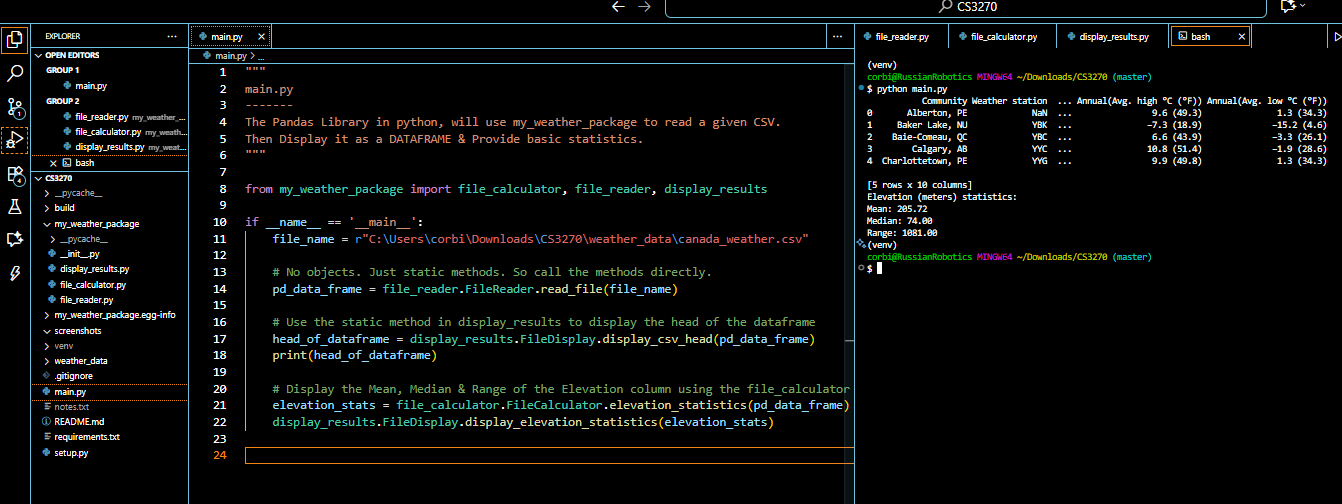
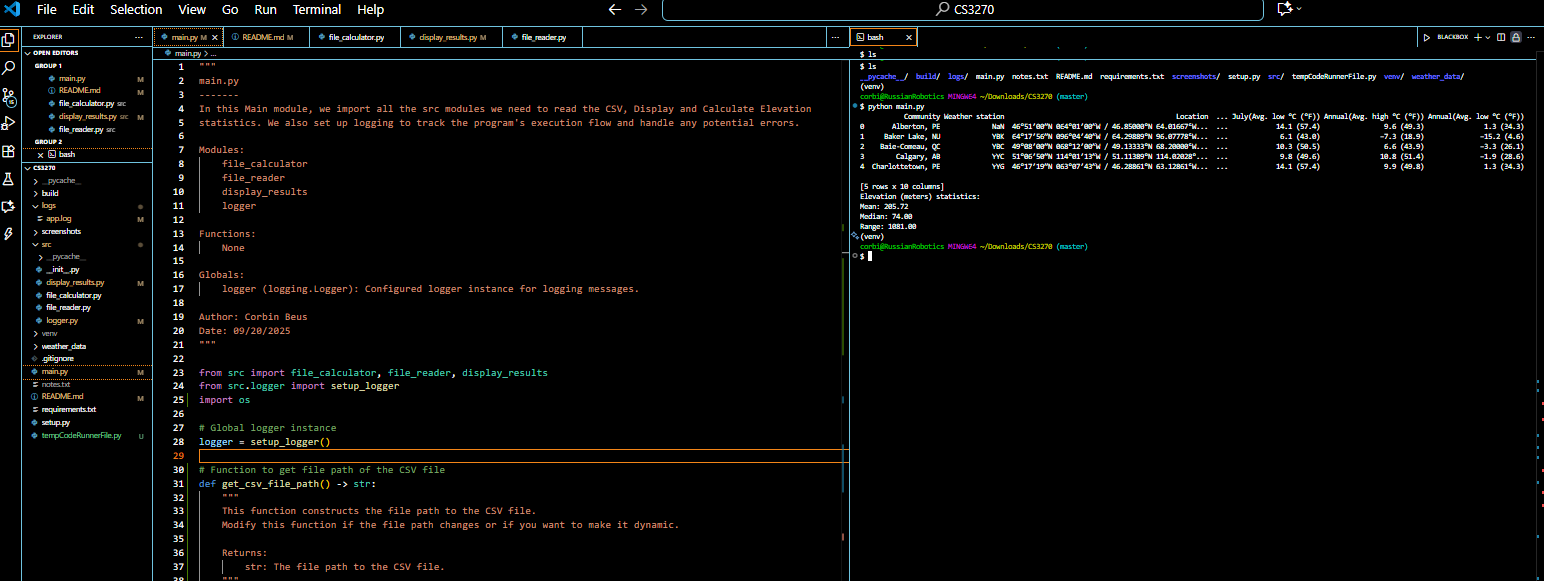
Adjusted file paths using os module, updated README for phase 4 documentation.

Changed region(s): [[0.0, 0.0, 1.0, 1.0], [0.611, 0.8631, 0.6416, 0.9226]]

diff --git a/main.py b/main.py
@@ -22,9 +22,24 @@ Date: 09/20/2025
 
 from src import file_calculator, file_reader, display_results
 from src.logger import setup_logger
+import os
 
 # Global logger instance
 logger = setup_logger()
+
+# Function to get file path of the CSV file
+def get_csv_file_path() -> str:
+    """
+    This function constructs the file path to the CSV file.
+    Modify this function if the file path changes or if you want to make it dynamic.
+    
+    Returns:
+        str: The file path to the CSV file.
+    """
+    # Example static path; modify as needed
+    current_dir = os.path.dirname(__file__)
+    csv_file_path = os.path.join(current_dir, 'weather_data', 'canada_weather.csv')
+    return csv_file_path
 
 if __name__ == '__main__':
 
@@ -32,14 +47,20 @@ if __name__ == '__main__':
     logger.info("Looking for the CSV file...")
     try:
         # Read and store CSV file -> File path
-        file_name = r"C:\Users\corbi\Downloads\CS3270\weather_data\canada_weather.csv" 
+        file_name = get_csv_file_path()
 
         # Use the static method in file_reader to read the CSV file -> Pandas DataFrame
         pd_data_frame = file_reader.FileReader.read_file(file_name)
 
         # Display the first 5 rows of the DataFrame using the display_results module -> DataFrame head
         head_of_dataframe = display_results.FileDisplay.display_csv_head(pd_data_frame)
-        print(head_of_dataframe)
+        print(next(head_of_dataframe))
+
+    # Display the Mean, Median & Range of the Elevation column using the file_calculator & display_results modules
+        elevation_stats = file_calculator.FileCalculator.elevation_statistics(pd_data_frame)
+        display_results.FileDisplay.display_elevation_statistics(elevation_stats)
+
+    # Exception handling for file reading and processing
     except FileNotFoundError as fnf_error:
         logger.error(f"FileNotFoundError: {fnf_error}")
         raise
@@ -47,14 +68,3 @@ if __name__ == '__main__':
         logger.critical(f"Unknown Error occurred while reading or display: {e}")
         raise
     logger.info("Successfully read the CSV file!")
-
-    # Display the Mean, Median & Range of the Elevation column using the file_calculator & display_results modules
-    logger.info("Calculating Elevation statistics...")
-    try:
-        elevation_stats = file_calculator.FileCalculator.elevation_statistics(pd_data_frame)
-        display_results.FileDisplay.display_elevation_statistics(elevation_stats)
-    except Exception as e:
-        logger.critical(f"Unknown Error occurred while calculating or displaying statistics: {e}")
-        raise
-    logger.info("Successfully calculated and displayed Elevation statistics!")
-

diff --git a/src/display_results.py b/src/display_results.py
@@ -21,9 +21,9 @@ class FileDisplay:
         print(f"Range: {stats['range']:.2f}")
         
     @staticmethod
-    def display_csv_head(results: dict) -> None:
+    def display_csv_head(results: dict):
         """
         This function displays CSV head from the provided weather data file.
         """
-        return results.head() # Only print the head
+        yield results.head() # Only print the head
     

diff --git a/src/logger.py b/src/logger.py
@@ -1,3 +1,12 @@
+"""
+Logger module is responsible for setting up and configuring the logging for the application.
+It creates a logger that writes logs to 'app.log' file located in the 'logs'
+directory. The logger is configured to log messages at the DEBUG level and above.
+
+Returns:
+    logging.Logger: Configured logger instance.
+"""
+
 import logging
 import os
 

diff --git a/tempCodeRunnerFile.py b/tempCodeRunnerFile.py
@@ -1,0 +1,2 @@
+
+    logger.info("Looking for the CSV file...")

diff --git a/README.md b/README.md
@@ -1,4 +1,10 @@
 # Weather CSV to DataFrame
+# Updates Phase 4:
+1. main.py & all /src files have been edited with Logging & error handling.
+2. display_csv_head has been edited to demonstrate generators using the "yield" command
+3. File Paths have been adjusted to use the os module for exact file paths.
+4. logger.py, /logs, app.log have been added to demonstrate custom logging.
+
 ## Overview
 This Python Script will use **Pandas** to read a static CSV path and return a **DataFrame**
 
